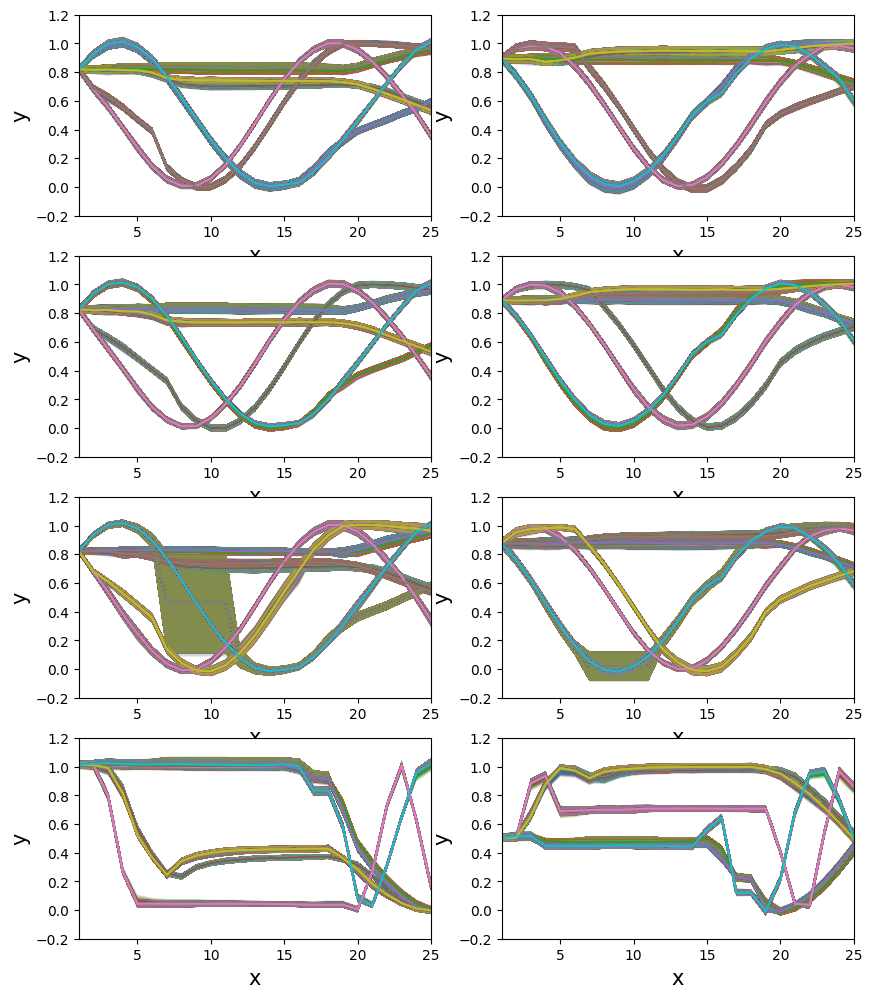
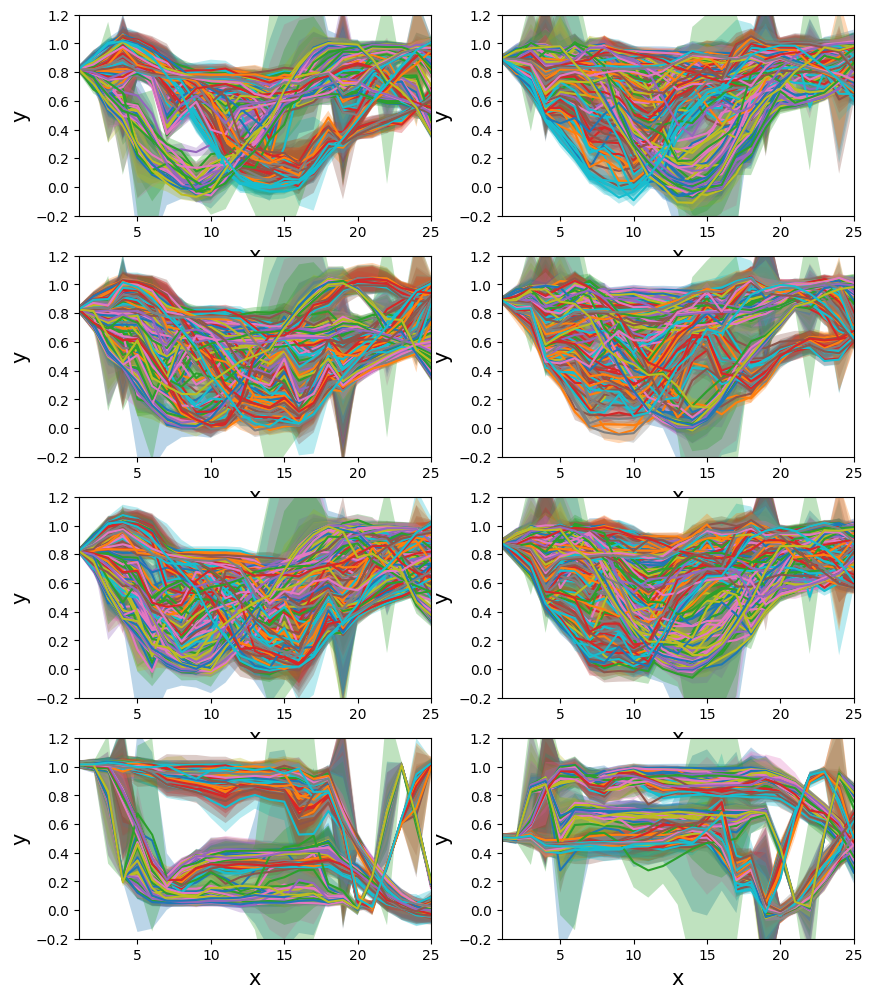
モデル平均で評価できる評価用コード作成した

diff --git a/scripts/usecase/test/test_dclaw.py b/scripts/usecase/test/test_dclaw.py
@@ -18,7 +18,7 @@ from custom import to_numpy
 from custom import reparameterize
 from custom import logsumexp
 from custom import log_density_z
-
+from custom import save_image
 
 class TestDClaw:
     def load_model(self, group, model):
@@ -43,79 +43,6 @@ class TestDClaw:
         datamodule = DataModuleFactory().create(**self.config_eval.datamodule)
         datamodule.setup(stage="test")
         self.test_dataloader = datamodule.test_dataloader()
-
-
-    # def get_evaluator_predictive_distribution(self):
-    #     mean   = []
-    #     var    = []
-    #     y_true = []
-    #     for index, data in self.train_dataloader:
-    #         x = data['input']  # image
-    #         y = data['output'] # state
-
-    #         recon_x_sample, recon_x = self.model.forward_fixed_motion_for_classification(x)
-    #         results_dict = self.evaluator.forward(x)
-    #         # results_dict = self.evaluator.forward(recon_x_sample)
-
-    #         # convert from tensor to numpy
-    #         y             = to_numpy(y)
-    #         mean_ensemble = to_numpy(results_dict["mean"])
-    #         var_ensemble  = to_numpy(results_dict["var"])
-
-    #         # calculate predictive distribution
-    #         mean_pred = mean_ensemble.mean(axis=0)
-    #         var_pred  = (var_ensemble + mean_ensemble**2).mean(axis=0) - mean_pred**2
-
-    #         mean.append(mean_pred)
-    #         var.append(var_pred)
-    #         y_true.append(y)
-
-    #     mean        = np.concatenate(mean, axis=0)
-    #     var         = np.concatenate(var, axis=0)
-    #     self.y_true = np.concatenate(y_true, axis=0)
-
-    #     # ----------------------
-    #     # import ipdb; ipdb.set_trace()
-    #     # num_batch, step, dim_y = mean.shape
-    #     # x = np.linspace(1, step, step)
-
-    #     # # << plot data: indivisdual mean and variance >>
-    #     # sin_plot = DClawDataPlot(xlabel="x", ylabel="y", title="y=sin(x)")
-    #     # # sin_plot.plot_true_function(x, y[index])
-    #     # for n in range(mean.shape[0]):
-    #     #     # import ipdb; ipdb.set_trace()
-    #     #     sin_plot.plot_prediction(x, mean[n], np.sqrt(var[n]))
-    #     # sin_plot.save_fig('./all_train_mean_var.png')
-    #     # import ipdb; ipdb.set_trace()
-    #     # ----------------------
-    #     return (mean, var)
-
-
-    def log_marginal_predictive_density(self, log_density_yx):
-        # import ipdb; ipdb.set_trace()
-        logsumexp_p_yx = logsumexp(torch.Tensor(log_density_yx), dim=0, keepdim=False)
-        log_py         = to_numpy(logsumexp_p_yx) - np.log(mean_yx.shape[0])
-        return log_py
-
-
-    # def log_marginal_predictive_density(self, mean_yx, var_yx, num_sampling=100):
-    #     log_py_samples = [self._log_marginal_predictive_density(mean_yx, var_yx) for i in range(num_sampling)]
-    #     return np.array(log_py_samples)
-
-
-    def log_gaussian_density(self, mean, var, sample):
-        dim         = mean.shape[-1]
-        c           = dim * np.log(2*np.pi)
-        y           = sample - mean
-        y_sigma     = y / np.sqrt(var)
-        log_density = -0.5 * (c + np.log(var).sum(axis=-1) + (y_sigma**2).sum(axis=-1))
-        return log_density.sum(-1) # sum over timestep
-
-
-    def get_log_gaussian_density(self, mean_yx, var_yx):
-        sample_yx      = self.reparameterize(mean_yx, np.log(var_yx))
-        log_density_yx = self.log_gaussian_density(mean_yx, var_yx, sample_yx)
-        return log_density_yx
 
 
     def evaluate(self):
@@ -171,6 +98,22 @@ class TestDClaw:
         ensemble_mean = np.concatenate(ensemble_mean, axis=0)
         ensemble_var  = np.concatenate(ensemble_var, axis=0)
         y_true        = np.concatenate(y_true, axis=0)
+
+        # ----------------------
+        #     plot ensemble
+        # ----------------------
+        num_batch, step, dim_y = ensemble_mean.shape
+        xx       = np.linspace(1, step, step)
+        sin_plot = DClawDataPlot(xlabel="x", ylabel="y", title="y=sin(x)")
+        for n in range(ensemble_mean.shape[0]):
+            sin_plot.plot_prediction(xx, ensemble_mean[n], np.sqrt(ensemble_var[n]))
+        sin_plot.save_fig('./all_train_mean_var.png')
+        # import ipdb; ipdb.set_trace()
+        # ----------------------
+        num_save_image = 24
+        save_image(save_path="./x.png", image=x[:num_save_image])
+        save_image(save_path="./x_gen.png", image=x_gen[:num_save_image])
+
         return {
             "z_mean_x"     : z_mean_x,
             "z_logvar_x"   : z_logvar_x,
@@ -183,48 +126,72 @@ class TestDClaw:
 
 
 if __name__ == '__main__':
+    # model_cdsvae = "[c-dsvae]-[action_norm_valve]-[dim_f=256]-[dim_z=32]-[300epoch]-[20230105142322]-melco_dclaw_config_cdsvae_dclaw"
+    # model_cdsvae = "[c-dsvae]-[action_norm_valve]-[dim_f=256]-[dim_z=32]-[300epoch]-[20230105144151]-remote3090_dclaw_config_cdsvae_dclaw"
 
-    model_model = "[c-dsvae]-[action_norm_valve]-[dim_f=256]-[dim_z=32]-[300epoch]-[20230105142322]-melco_dclaw_config_cdsvae_dclaw"
-    group_model = "cdsvae_dclaw"
+    # search_key        = "melco"
+    search_key        = "remote3090"
 
-    model_eval  = "[regressor_dclaw]-[action_norm_valve]-[dim_out=8]-[dim_fc_hidden=256]-[100epoch]-[num_batch=128]-[beta=0.5]-[20230109222005]-[melco]-"
-    group_eval  = "regressor_dclaw"
+    group_model       = "cdsvae_dclaw"
+    pathlib_obj       = pathlib.Path("/hdd_mount/logs_cdsvae/{}".format(group_model))
+    model_cdsvae_list = [str(model).split("/")[-1] for model in list(pathlib_obj.glob("*")) if search_key in str(model)]
 
-    test        = TestDClaw()
-    test.load_model(group=group_model, model=model_model)
-    test.load_evaluator(group=group_eval, model=model_eval)
-    test.load_evaluation_dataset()
+    num_eval_per_model = 5
 
+    loss_total = []
+    kl_total   = []
+    H_y_total  = []
 
-    loss_list = []
-    kl_list   = []
-    H_y_list  = []
-    for i in range(5):
-        result_dict = test.evaluate()
+    for m, model_cdsvae in enumerate(model_cdsvae_list):
 
-        loss = (result_dict["y_true"] - result_dict["ensemble_mean"]).sum(-1).mean(axis=-1).mean(axis=-1)
+        model_eval  = "[regressor_dclaw]-[action_norm_valve]-[dim_out=8]-[dim_fc_hidden=256]-[100epoch]-[num_batch=128]-[beta=0.5]-[20230109222005]-[melco]-"
+        group_eval  = "regressor_dclaw"
 
-        kl = metric.kl_divergence(
-            q = (result_dict["z_mean_gen"], result_dict["z_logvar_gen"]),
-            p = (result_dict["z_mean_x"], result_dict["z_logvar_x"]),
-        )
+        test        = TestDClaw()
+        test.load_model(group=group_model, model=model_cdsvae)
+        test.load_evaluator(group=group_eval, model=model_eval)
+        test.load_evaluation_dataset()
 
-        # << ensemble entropy>>
-        ensemble_mean   = result_dict["ensemble_mean"]
-        ensemble_var    = result_dict["ensemble_var"]
-        sample_p_yx     = reparameterize(mean=torch.Tensor(ensemble_mean), logvar=torch.Tensor(np.log(ensemble_var)))
-        sample_p_yx     = to_numpy(sample_p_yx)
-        N               = ensemble_mean.shape[0]
-        log_p_yx_matrix = log_density_z(mean=torch.Tensor(ensemble_mean), logvar=torch.Tensor(np.log(ensemble_var)), sample=torch.Tensor(sample_p_yx))
-        logsumexp_p_y   = logsumexp(log_p_yx_matrix, dim=-1, keepdim=True) # sum over inner minibach (index j)
-        H_y             = - torch.mean(logsumexp_p_y.squeeze() - torch.Tensor([np.log(N*N)]))
+        loss_list = []
+        kl_list   = []
+        H_y_list  = []
+        for i in range(num_eval_per_model):
+            result_dict = test.evaluate()
 
-        print("[loss, kl, Hy] = [{:.3f}, {:.2f}, {:.2f}]".format(loss, kl, H_y))
+            loss = (result_dict["y_true"] - result_dict["ensemble_mean"]).sum(-1).mean(axis=-1).mean(axis=-1)
 
-        loss_list.append(loss)
-        kl_list.append(kl)
-        H_y_list.append(H_y)
+            kl = metric.kl_divergence(
+                q = (result_dict["z_mean_gen"], result_dict["z_logvar_gen"]),
+                p = (result_dict["z_mean_x"], result_dict["z_logvar_x"]),
+            )
 
-    print("-------------------    mean   ------------------------")
-    print("[loss, kl, Hy] = [{:.3f}, {:.2f}, {:.2f}]".format(np.mean(loss_list), np.mean(kl_list), np.mean(H_y_list)))
-    print("------------------------------------------------------")
+            # << ensemble entropy>>
+            ensemble_mean   = result_dict["ensemble_mean"]
+            ensemble_var    = result_dict["ensemble_var"]
+            sample_p_yx     = reparameterize(mean=torch.Tensor(ensemble_mean), logvar=torch.Tensor(np.log(ensemble_var)))
+            sample_p_yx     = to_numpy(sample_p_yx)
+            N               = ensemble_mean.shape[0]
+            log_p_yx_matrix = log_density_z(mean=torch.Tensor(ensemble_mean), logvar=torch.Tensor(np.log(ensemble_var)), sample=torch.Tensor(sample_p_yx))
+            logsumexp_p_y   = logsumexp(log_p_yx_matrix, dim=-1, keepdim=True) # sum over inner minibach (index j)
+            H_y             = - torch.mean(logsumexp_p_y.squeeze() - torch.Tensor([np.log(N*N)]))
+
+            # print("[loss↓ , kl↓ , Hy↑ ] = [{:.3f}, {:.2f}, {:.2f}]".format(loss, kl, H_y))
+
+            loss_list.append(loss)
+            kl_list.append(kl)
+            H_y_list.append(H_y)
+
+        loss_mean = np.mean(loss_list)
+        kl_mean   = np.mean(kl_list)
+        H_y_mean  = np.mean(H_y_list)
+        print("     (model {}/{}) [loss↓ , kl↓ , Hy↑ ] = [{:.3f}, {:.2f}, {:.2f}]".format(
+            m+1, len(model_cdsvae_list), loss_mean, kl_mean, H_y_mean))
+
+        loss_total.append(loss_mean)
+        kl_total.append(kl_mean)
+        H_y_total.append(H_y_mean)
+
+    print("-----------------------------------------------------------------------")
+    print(" total mean (M={}) [loss↓ , kl↓ , Hy↑ ] = [{:.3f}, {:.2f}, {:.2f}]".format(
+        len(model_cdsvae_list), np.mean(loss_total), np.mean(kl_total), np.mean(H_y_total)))
+    print("-----------------------------------------------------------------------")

diff --git a/scripts/custom/utility/save_image.py b/scripts/custom/utility/save_image.py
@@ -1,0 +1,19 @@
+import torch
+from torch import Tensor
+from torchvision import utils
+
+
+def save_image(save_path: str, image: Tensor):
+    num_batch, step, channel, width, height = image.shape
+    image_list = []
+    for i in range(num_batch):
+        image_list.append(utils.make_grid(image[i], nrow=step, padding=2, pad_value=0.0, normalize=True))
+
+    # print("\n\n---------------------------------------")
+    # print(" [  images ] min. max = [{}, {}]".format(   image[1].min(),    image[1].max()))
+    # print("---------------------------------------\n\n")
+    '''
+        Plese check if range of img is [0.0, 1.0].
+        Because utils.save_image() assums that tensor image is in range [0.0, 1.0] internally.
+    '''
+    utils.save_image(torch.cat(image_list, dim=1), fp=save_path)

diff --git a/scripts/custom/__init__.py b/scripts/custom/__init__.py
@@ -12,5 +12,6 @@ from custom.utility.logsumexp import logsumexp
 from custom.utility.log_density_z import log_density_z
 from custom.utility.create_gif import create_gif
 from custom.utility.reoder import reorder
+from custom.utility.save_image import save_image
 
 __version__ = '0.1.0'
